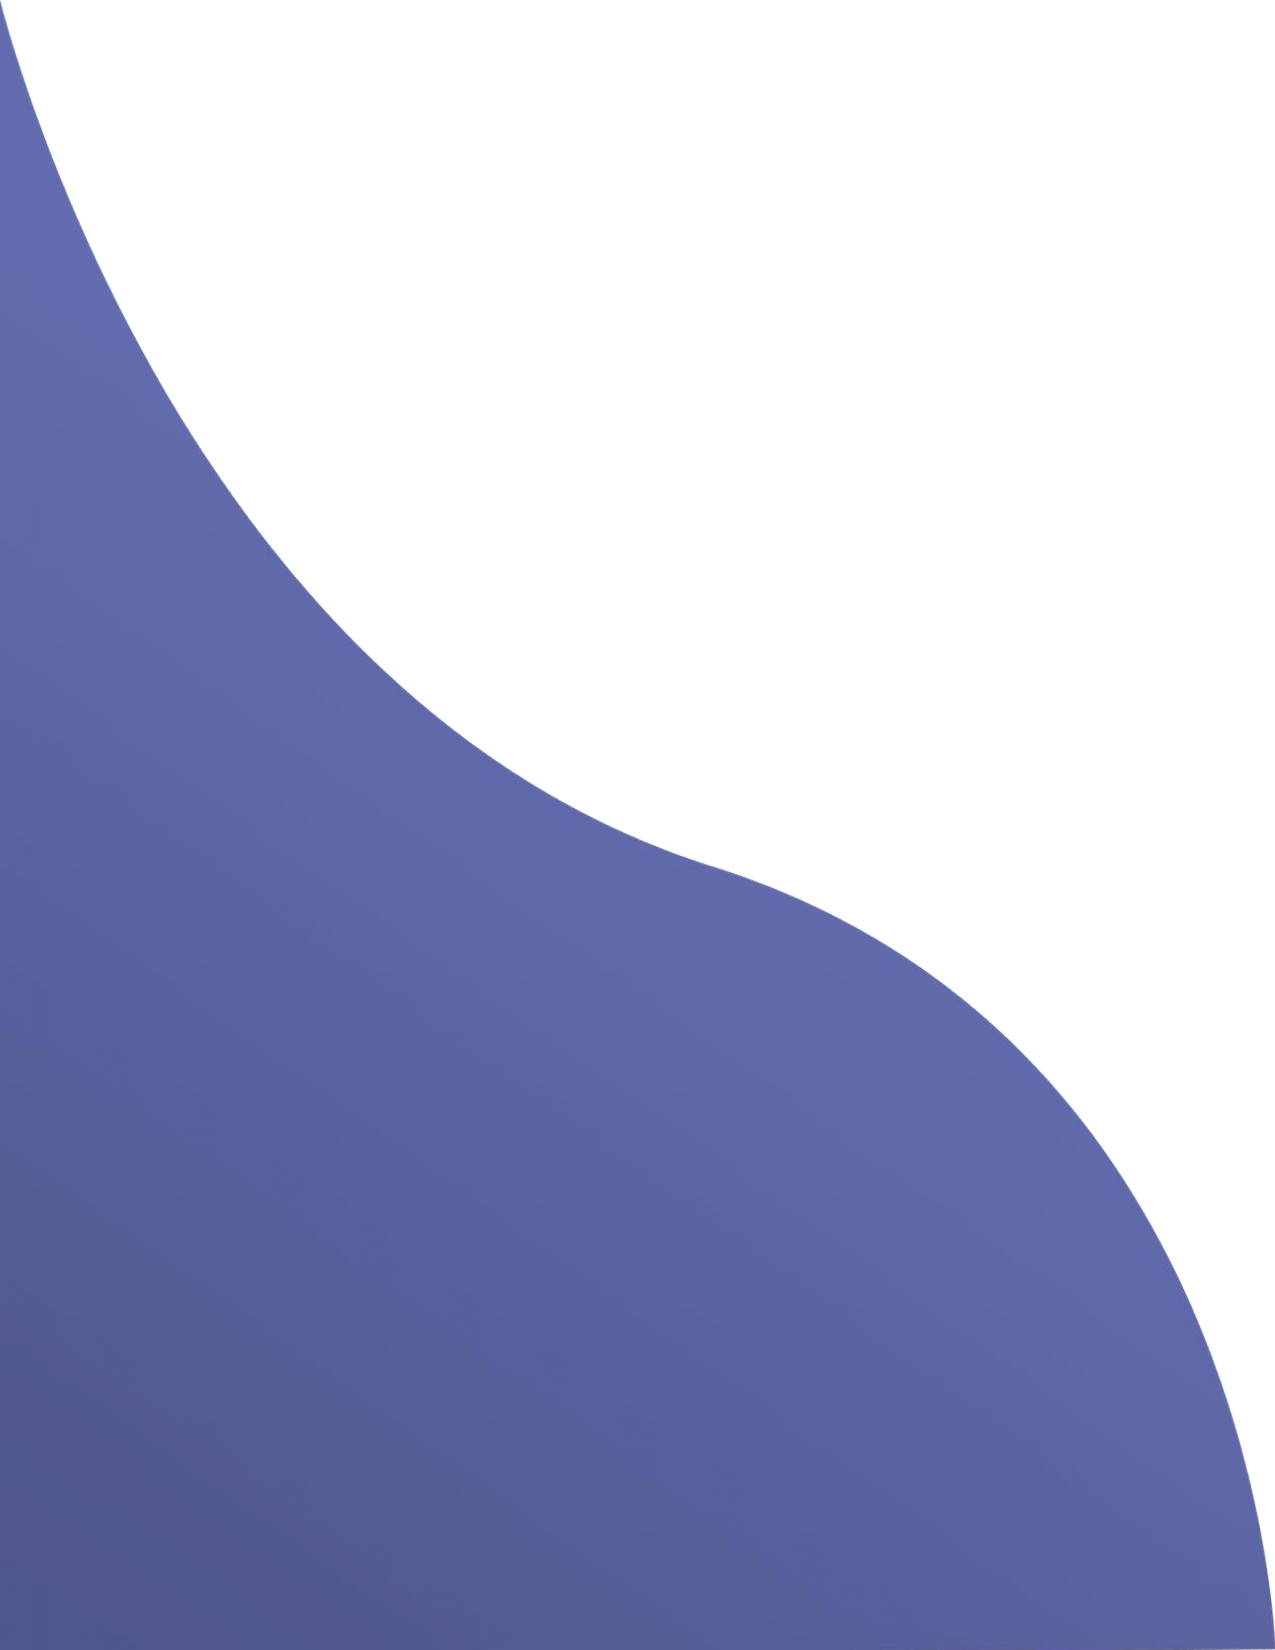
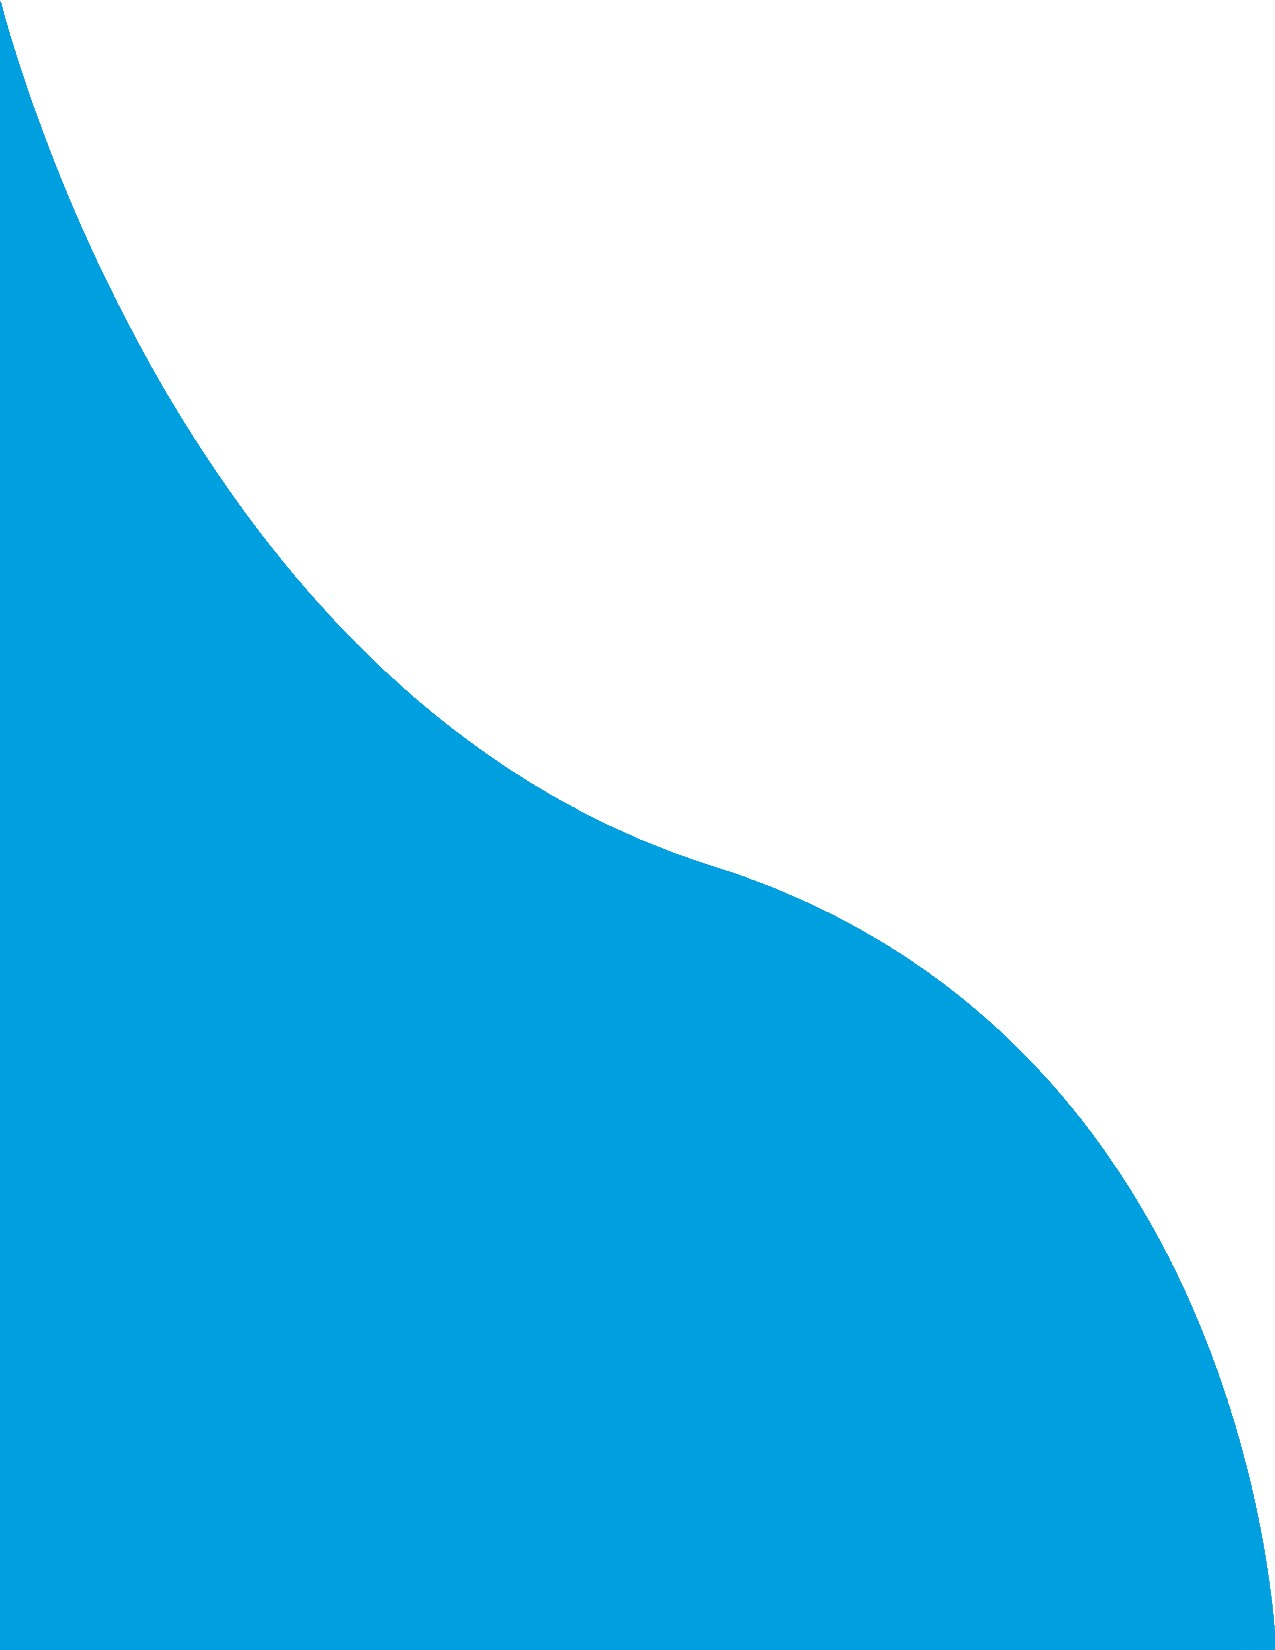
Se complemento el nuevo diseño del login y se verifico su correcta funcionalidad

diff --git a/Assets/css/login.css b/Assets/css/login.css
@@ -69,22 +69,20 @@ body {
 
 /*formulario*/
 .from-logi {
-
   display: grid;
   grid-template-columns: 1fr;
-  width: 450px;
+  width: 440px;
   height: 400px;
   margin: auto;
-  margin-top: 180px;
+  margin-top: 8em;
   padding: 40px 30px;
-  color: #000;
   position: relative;
   top: -50px;
-  left: -250PX;
+  left: -6em;
   font-family: var(--fuenteRoboto);
-  border-radius: 20px;
   float: right;
   z-index: 100;
+  text-align: center;
 }
 
 .input_email {
@@ -96,16 +94,16 @@ body {
   text-align: center;
   height: 40px;
   margin-bottom: 30px;
-  border-bottom: 1px solid;
   font-size: 30px;
+  color:#009FE0;
 }
 
 .controls {
   font-family: var(--fuenteRoboto);
   width: 100%;
-  border: 3px solid rgb(187, 187, 187);
+  border: 2px solid rgb(187, 187, 187);
   margin-bottom: 40px;
-  border-radius: 15px;
+  border-radius: 13px;
   padding: 10px 12px;
   background: #fff;
   font-size: 18px;
@@ -119,30 +117,36 @@ body {
 
 /*====================================IMAGEN LOGIN==========================================*/
 .job {
-  width: 480px;
-  height: 480px;
+  width: 510px;
+  height: 540px;
   position: relative;
-  top: 70px;
   float: left;
-  left: -90;
+  left: 5em;
   z-index: 100;
-  top: 110px;
-
+  top: 7em;
 }
 
 .wave {
   position: fixed;
-  height: 100%;
+  height: 140%;
+  width: 74%;
   left: 0;
-  bottom: 0;
+  bottom: -40%;
   z-index: -1;
+  /* transform: rotate(-90deg); */
+}
 
+.pontelab{
+  width: 225px;
+  height: 60px;
+  position: center;
+  margin-bottom: 2em;
 }
 
 /*===================================ESTILO PARA VALIDACION===================================*/
 .controls:focus,
 .controls:active {
-  border: 3px solid #1f4fa8;
+  border: 2px solid #999999;
   outline: none;
   box-shadow: 3px 0px 38px rgba(163, 163, 163, 1);
 }
@@ -203,7 +207,7 @@ body {
   right: 10px;
   width: 15px;
   z-index: 100;
-  top: 210px;
+  top: 303px;
   right: 40px;
   color: #000000;
 }
@@ -213,24 +217,22 @@ body {
   position: absolute;
   top: 0px;
   right: 0px !important;
-  color: #000000;
+  color: #999999;
 }
-
-
 
 /*===================================BOTON=======================================*/
 .boton_3 {
   cursor: pointer;
   text-decoration: none;
-  height: 50px;
-  width: 300px;
+  height: 45px;
+  width: 100%;
   padding: 10px;
   font-weight: 600;
   font-size: 15px;
   color: #ffffff;
-  background-color: #1e1e62;
-  border-radius: 10px;
-  border: 2px solid #1e1e62;
+  background-color: #009FE0;
+  border-radius: 13px;
+  border: 2px solid #009FE0;
   justify-content: center;
   text-align: center;
   align-content: center;
@@ -241,7 +243,8 @@ body {
 
 .boton_3:hover {
   box-shadow: 3px 0px 38px rgba(163, 163, 163, 1);
-  background-color: #000;
+  background-color: #676766;
+  border: none;
 }
 
 /*==================================LINK===========================================*/
@@ -387,11 +390,11 @@ body {
   }
 
   .a1 {
-    color: #000;
+    color: #ffffff;
   }
 
   .a2 {
-    color: #000;
+    color: #ffffff;
   }
 }
 
@@ -518,26 +521,6 @@ body {
     outline: none;
     font-weight: 400;
     transition: .3s ease all;
-  }
-
-  .boton_3 {
-    cursor: pointer;
-    text-decoration: none;
-    height: 50px;
-    width: 200px;
-    padding: 10px;
-    font-weight: 600;
-    font-size: 15px;
-    color: #ffffff;
-    background-color: #1e1e62;
-    border-radius: 10px;
-    border: 2px solid #1e1e62;
-    justify-content: center;
-    text-align: center;
-    align-content: center;
-    position: relative;
-    top: -2px;
-    left: center;
   }
 
   #spanMostrar {

diff --git a/Views/Login/Login.php b/Views/Login/Login.php
@@ -6,41 +6,53 @@
     <meta http-equiv="X-UA-Compatible" content="IE=edge">
     <meta name="viewport" content="width=device-width, initial-scale=1.0">
     <title><?= $data['titulo_pagina'] ?></title>
-    <link rel="shortcut icon" href="<?= URL; ?>/Assets/img/Logo_ponslabor.ico" type="image/x-icon" />
+    <link rel="shortcut icon" href="<?= URL; ?>Assets/img/Logo_ponslabor.ico" type="image/x-icon" />
     <link href="https://fonts.googleapis.com/css?family=Quicksand" rel="stylesheet">
     <link href="https://fonts.googleapis.com/css2?family=Roboto:wght@100;300;400;500;700;900&display=swap" rel="stylesheet" />
     <link href="https://unpkg.com/material-components-web@latest/dist/material-components-web.min.css" rel="stylesheet">
     <link rel="stylesheet" href="https://fonts.googleapis.com/icon?family=Material+Icons">
+    <!-- CSS -->
     <link rel="stylesheet" href="<?= URL; ?>Assets/css/stylesGlobal.css" />
     <link rel="stylesheet" href="<?= URL; ?>Assets/css/login.css">
 </head>
 
 <body>
-    <?php
-    require_once('./Views/Components/NabvarInicio.php');
-    ?>
+<!-- Paleta de Colores
 
+Blanco #FFFFFF
+
+Azul (P) #009FE0
+
+Azul (Degradado) #70FAFF
+
+Gris (PonteLab) #999999
+
+Gris (Bolsa de empleo) #676766 -->
+    <!-- Hay que quitar el navbar
+Y los bordes de los inputs que sean más claros y tal vez un poco más delgados -->
     <section class="from-logi">
         <form method="POST" action="" id="form-login">
+            <img src="./Assets/img/Logo_ponslabor.png" class="pontelab">
             <h5>Iniciar Sesión</h5>
             <input class="controls" type="email" name="Usuario" id="Usuario" required placeholder="example@example.com">
             <input type="password" class="controls" name="Password" id="Contraseña" placeholder="Contraseña">
             <span id="spanMostrar" class="form-clear d-none"><i id="iconMostrar" class="material-icons mdc-text-field__icon">visibility</i></span>
-            <center><button type="submit" id="valida" class="boton_3">Iniciar Sesión</button></center>
+            <button type="submit" id="valida" class="boton_3">Ingresar</button>
             <center>
-                <p><a class="a1" href="<?=URL?>Login/Correo_Recuperar_Password" style="color: #d32f2f; font-size: 16px; font-weight:600; position: relative; top: 30px;">¿Olvido su contraseña?</a></p>
+                <p><a class="a1" href="Login/Correo_Recuperar_Password" style="color: #676766; font-size: 16px; font-weight:600; position: relative; top: 30px;">¿Olvido su contraseña?</a></p>
             </center>
             <center>
-                <p><a class="a2" href="<?=URL?>Registro" style="color: #303f9f; font-size: 15px; font-weight:500;position: relative; top: 50px; ">Crear cuenta</a></p>
+                <p><a class="a2" href="Registro" style="color: #676766; font-size: 16px; font-weight:600;position: relative; top: 40px; ">Crear cuenta</a></p>
             </center>
         </form>
     </section>
-    <img src="<?= URL; ?>/Assets/img/job.svg" class="job">
-    <img src="<?= URL; ?>/Assets/img/wave.jpg" class="wave">
+    <img src="<?= URL; ?>Assets/img/Login.svg" class="job">
+    <img src="<?= URL; ?>Assets/img/wave.jpg" class="wave">
+
     <?php
-    require_once('./Views/Components/ScriptsJs.php');
+        require_once('./Views/Components/ScriptsJs.php');
     ?>
-    <script src="<?= URL; ?>Assets/js/login.js"></script>
+    <script src="<?= URL ?>Assets/js/login.js"></script>  
 </body>
 
 </html>
